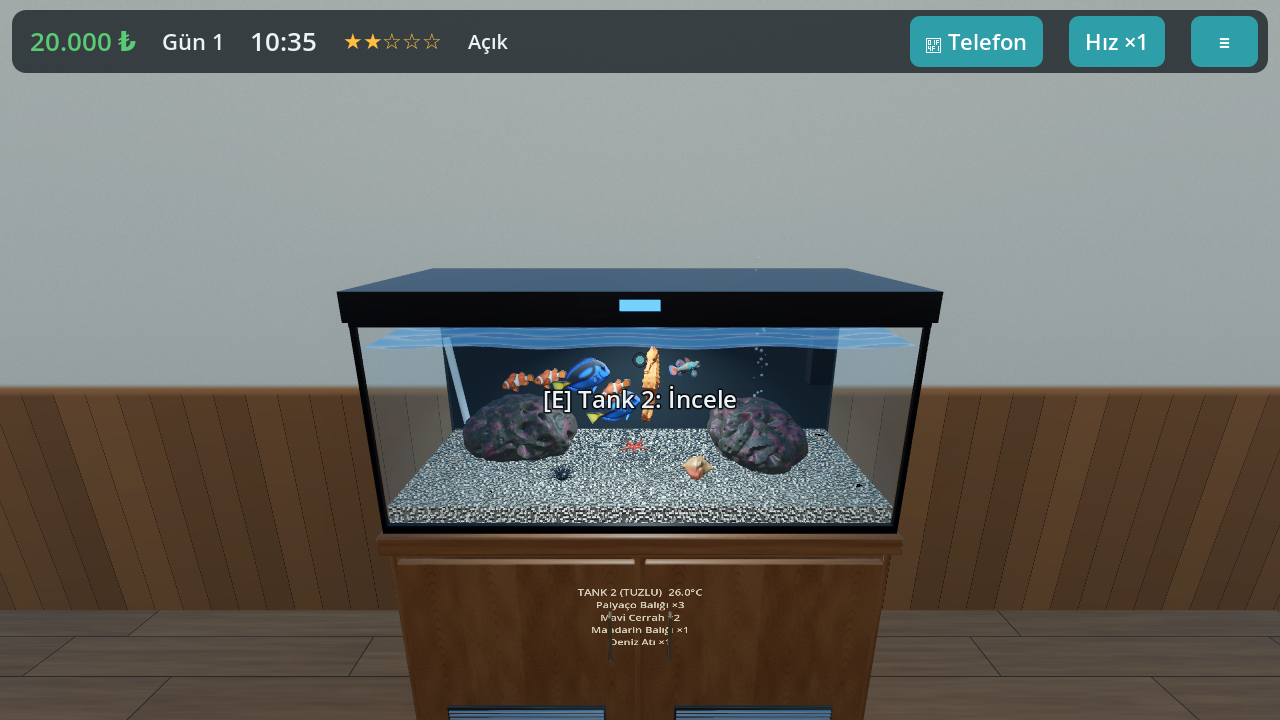
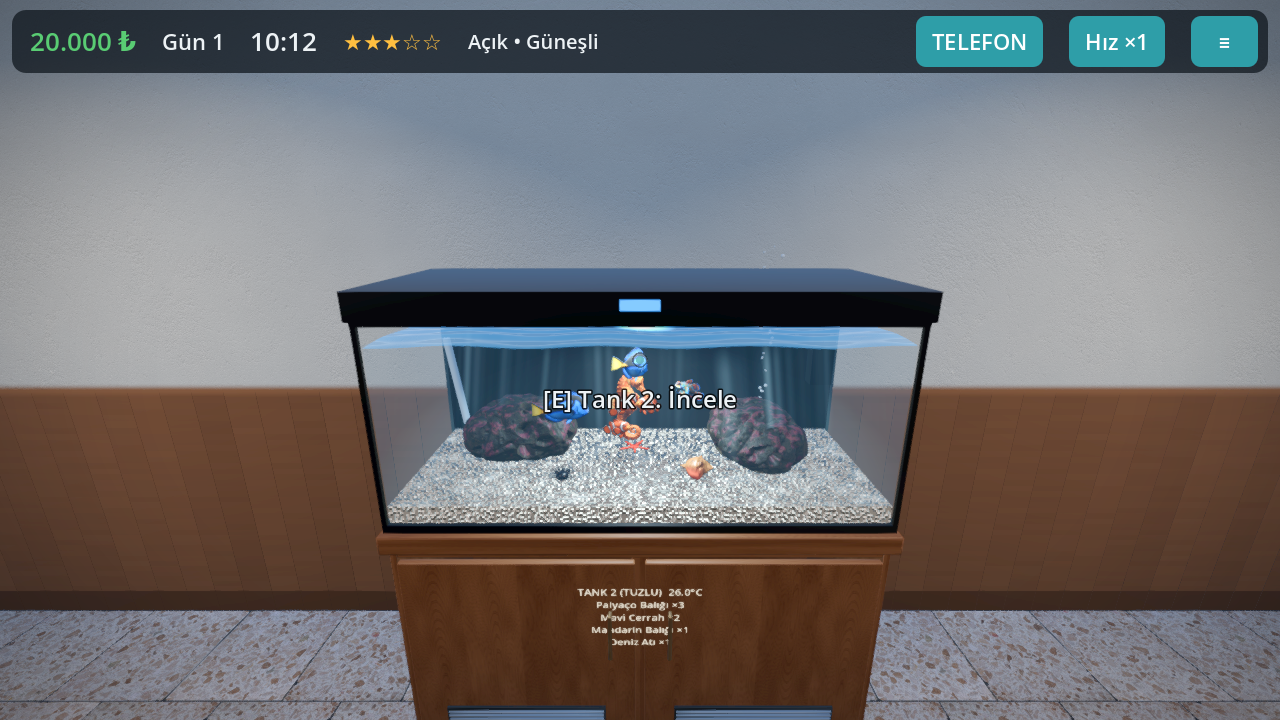
Görsel aşama 2: kit aşınma rengi düzeltmesi, güneş yönü, su yüzeyi
- Şehir kiti modellerindeki köşe rengi (aşınma maskesi) kırmızı leke yapıyordu, kapatıldı
- Güneş cepheye ve vitrinden içeri vuracak şekilde döndürüldü
- Su yüzeyi daha saydam (sütlü görünüm giderildi)
- Mobile renderer ile alınmış yeni ekran görüntüleri

Claude-Session: https://claude.ai/code/session_015MbJhkShsJQuf98rJJotUr

diff --git a/README.md b/README.md
@@ -4,6 +4,7 @@ Godot 4 ile yapılmış, birinci şahıs, Türkçe bir **akvaryum dükkânı yö
 Rahatlatıcı görünür ama seni uğraştırır: su kirlenir, balıklar hastalanır, yanlış türler birbirini yer,
 müşteriler pazarlık eder ve kira her gün artar.
 
+![Cadde](docs/cadde.png)
 ![Boş dükkân](docs/bos_dukkan.png)
 ![Kurulmuş dükkân](docs/dukkan.png)
 ![Yerleştirme modu](docs/yerlestirme.png)
